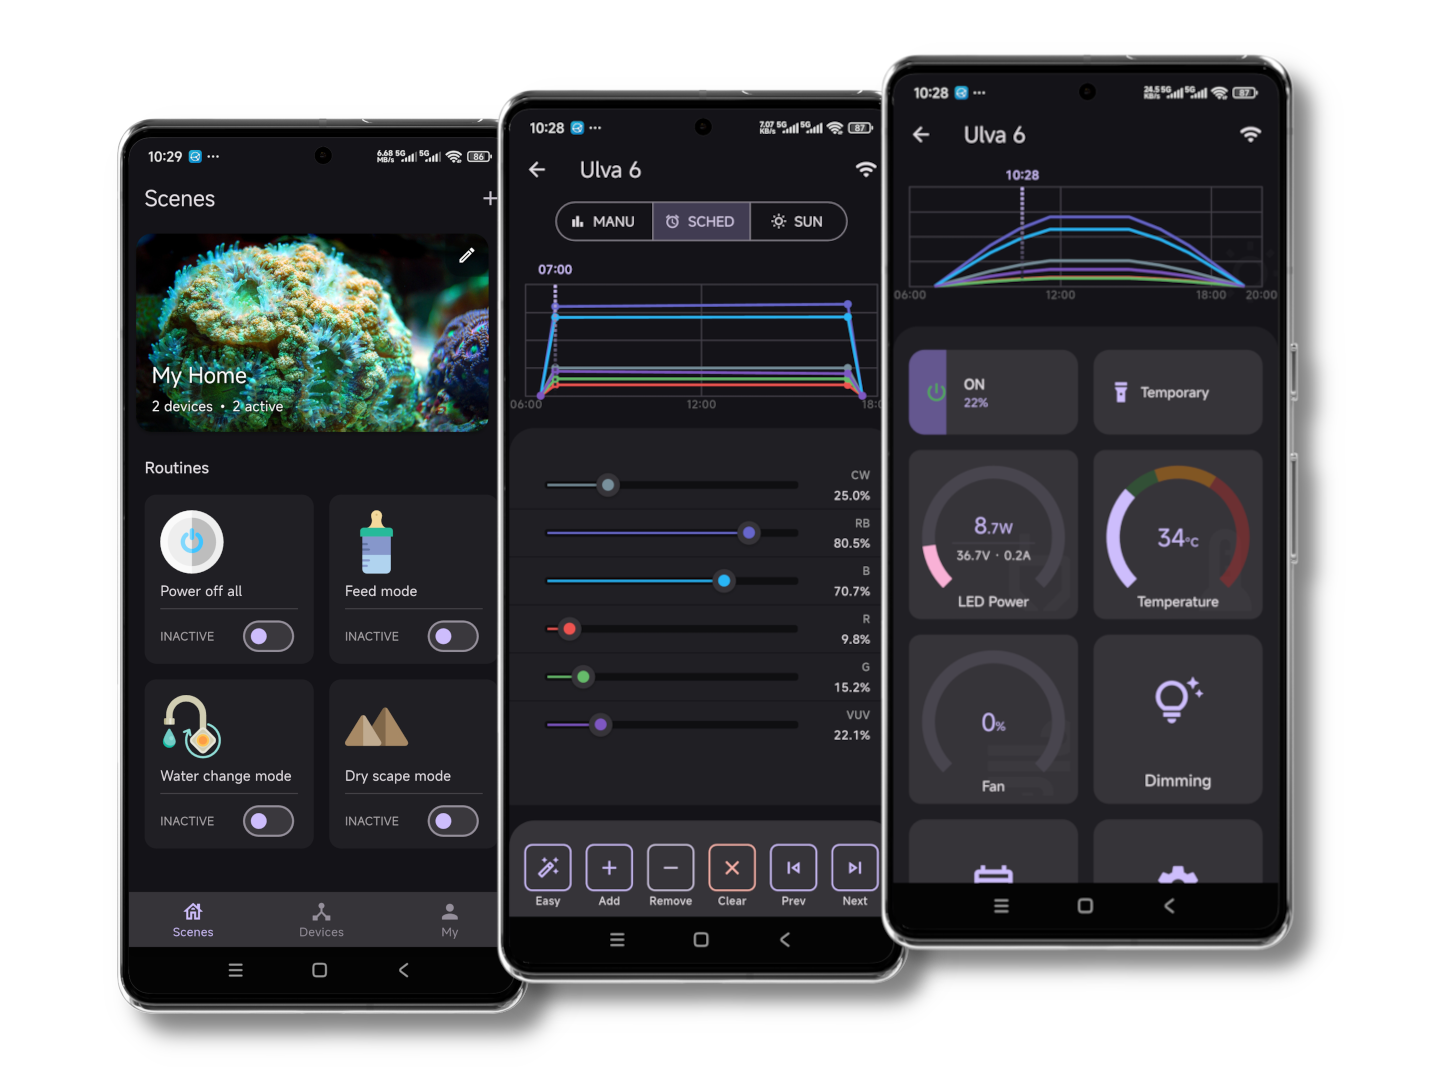
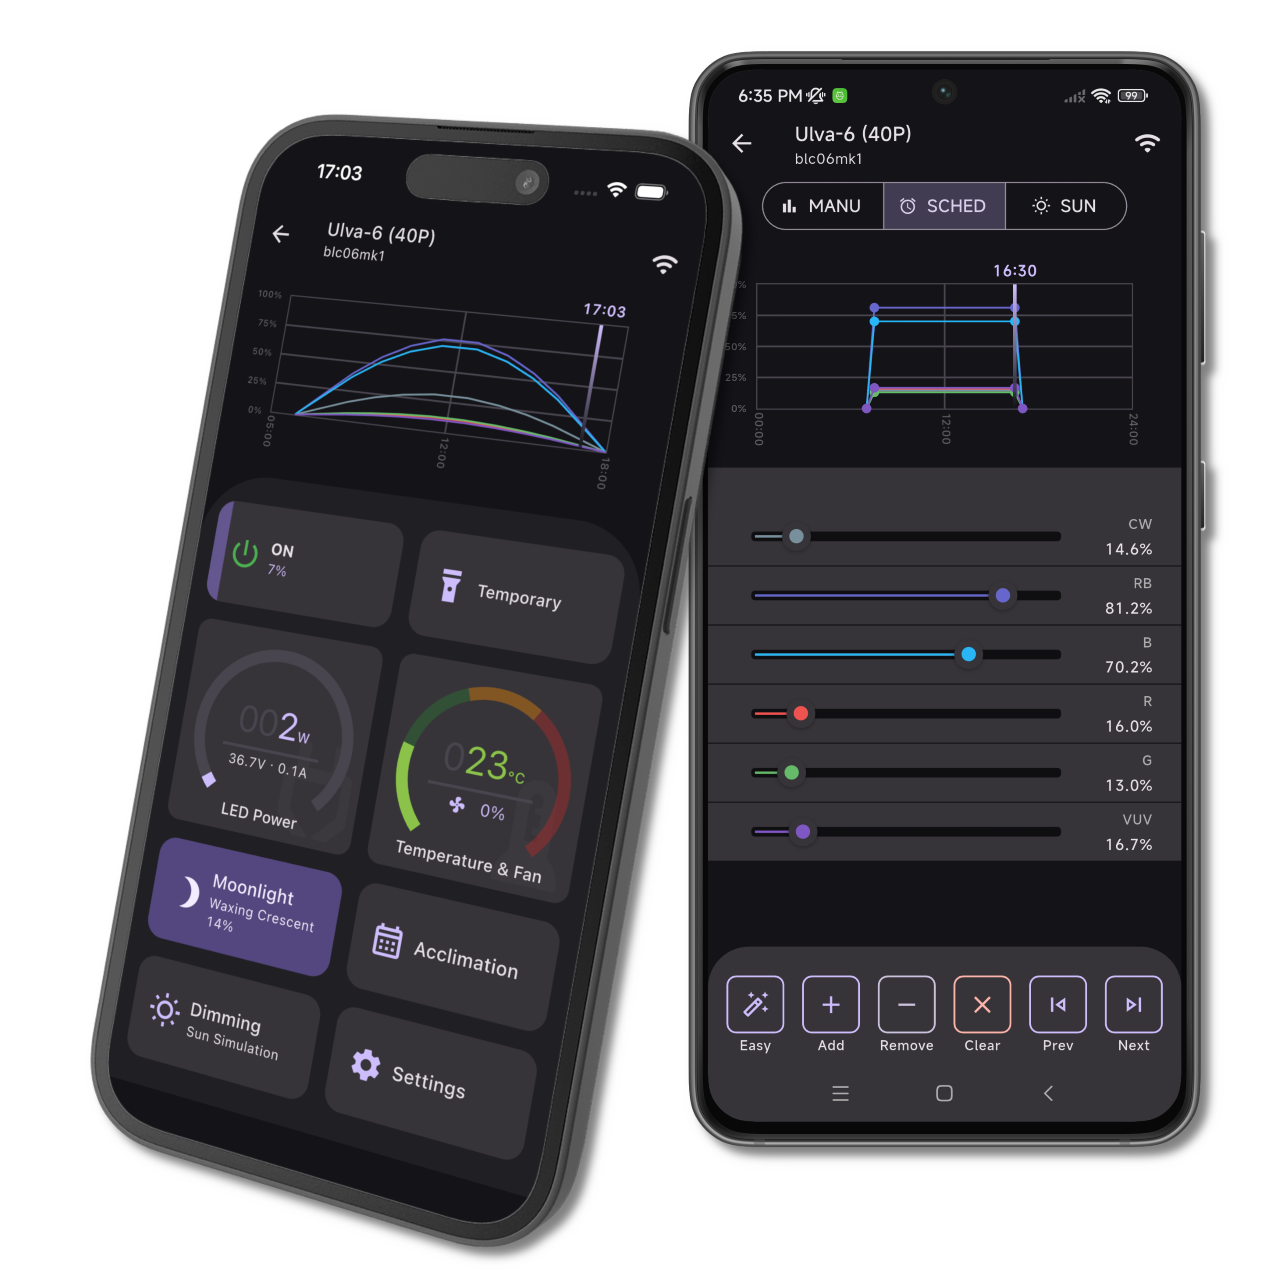
Add Borneo-IoT mobile app page and update links for consistency
- Created a new page for the Borneo-IoT Mobile App with features and technical information.
- Updated links in various files to point to the new app page.
- Enhanced content structure by adding new bricks for better presentation.
- Removed outdated gallery image and updated app image.

diff --git a/themes/hugobricks/layouts/partials/brick_intro3.html b/themes/hugobricks/layouts/partials/brick_intro3.html
@@ -1,0 +1,27 @@
+{{- $inner := . -}}
+{{- if or (eq $inner "") (eq $inner nil) -}}
+    {{- $inner = "Empty brick found. Consider creating a 'content/bricks/intro3.md' file." -}}
+    {{- with page.Site.GetPage "bricks/intro3.md" -}}
+        {{- $inner = .RawContent -}}
+    {{- end -}}
+{{- end -}}
+
+{{- $inner = markdownify $inner -}}
+{{- /* look for the first media element: image inside a paragraph, a video tag or an iframe */ -}}
+{{- $media := index (findRE `(?s)(<p>\s*(?:<img|<video|<iframe).*?</p>)|(<video.*?</video>)|(<iframe.*?</iframe>)` $inner 1) 0 -}}
+{{- if ne $media "" -}}
+    {{- $inner = replace $inner $media "" 1 -}}
+{{- end -}}
+
+<section class="intro image">
+    <div class="container twocols">
+        <div class="text">
+            {{ $inner | safeHTML }}
+        </div>
+        {{- if ne $media "" -}}
+        <div class="image">
+            {{- $media | safeHTML -}}
+        </div>
+        {{- end -}}
+    </div>
+</section>

diff --git a/themes/hugobricks/layouts/partials/brick_video2.html b/themes/hugobricks/layouts/partials/brick_video2.html
@@ -1,0 +1,24 @@
+
+{{- $inner := . -}}
+{{- if or (eq $inner "") (eq $inner nil) -}}
+    {{- $inner = "Empty brick found. Consider creating a 'content/bricks/video.md' file." -}}
+    {{- with page.Site.GetPage "bricks/image.md" -}}
+        {{- $inner = .RawContent -}}
+    {{- end -}}
+{{- end -}}
+
+{{ $inner = markdownify $inner }}
+{{ $image := index (findRE `(?s)<video.*\/video>` $inner 1) 0 }}
+{{ $inner = replace $inner $image "" 1 }}
+
+<section class="image alt hasbackgroundcolor">
+    <div class="container twocols">
+        <div class="image">
+            {{- $image | safeHTML -}}
+        </div>
+        <div class="text">
+            {{ $inner | safeHTML }}
+        </div>
+    </div>
+</section>
+

diff --git a/themes/hugobricks/layouts/shortcodes/brick_intro2.html b/themes/hugobricks/layouts/shortcodes/brick_intro2.html
@@ -1,0 +1,20 @@
+<!-- 
+{{/* 
+
+Usage:
+
+{{< brick_intro >}}
+
+# The Ultimate Theme You Need To Start Your Hugo Website
+
+Hugobricks is a free website theme built with Hugo and vanilla CSS, providing everything you need to jumpstart your Hugo website and save valuable time.
+
+{{< button "Get started for free" "/get-started/" >}}
+
+![](/uploads/brick_intro.png)
+
+{{< /brick_intro >}}
+    
+*/}}
+-->
+{{- partial "brick_intro2.html" .Inner -}}

diff --git a/themes/hugobricks/layouts/shortcodes/brick_intro3.html b/themes/hugobricks/layouts/shortcodes/brick_intro3.html
@@ -1,0 +1,19 @@
+<!-- 
+{{/* 
+
+Usage:
+
+{{< brick_intro3 >}}
+
+# A title on the left
+
+Some introductory text on the left side.  If you drop an image, video or iframe into the content,
+it will be pulled out and placed on the right column automatically.
+
+![](/uploads/sample.png)
+
+{{< /brick_intro3 >}}
+    
+*/}}
+-->
+{{- partial "brick_intro3.html" .Inner -}}

diff --git a/themes/hugobricks/layouts/shortcodes/brick_video2.html b/themes/hugobricks/layouts/shortcodes/brick_video2.html
@@ -1,0 +1,18 @@
+<!-- 
+{{/* 
+
+Usage:
+
+{{< brick_video >}}
+
+## Ready to build your next project with Next?
+
+Experience the future of web development with Nextplate and Next. Build lightning-fast static sites with ease and flexibility.
+
+![](/uploads/brick_video.mp4)
+
+{{< /brick_video >}}
+    
+*/}}
+-->
+{{- partial "brick_video2.html" .Inner -}}

diff --git a/content/en/_index.md b/content/en/_index.md
@@ -5,7 +5,7 @@ seo:
   description: "Borneo IoT provides modular, high-performance hardware solutions for smart aquarium lighting and automation. From the Ulva-6 smart reef LED to BLC06E OEM modules, we empower hobbyists and manufacturers."
 ---
 
-{{< brick_title >}}
+{{< brick_title2 >}}
 
 ![](/uploads/photos/home/hero.jpg)
 
@@ -17,39 +17,14 @@ seo:
 {{< button2 "GitHub" "https://github.com/borneo-iot/borneo/releases" >}}
 {{< button2 "Join Discord Community" "https://discord.gg/EFJTm7PpEs" >}}
 
-{{< /brick_title >}}
+{{< /brick_title2 >}}
 
-{{< brick_features >}}
-
----
-
-![](/img/icons/material-symbols/200/rounded/devices.svg)
-### Zero-Code, Instant Launch
-
-Launch smart, App-controlled products in 4-6 weeks with our pre-integrated kit, including firmware, dimmer, and brand-ready app. Skip software development and focus on hardware design.
-
----
-
-![](/img/icons/material-symbols/200/rounded/performance_max.svg)
-### Expert Aquatic Performance
-
-Gain premium aquatic functionality instantly. Our firmware includes 10+ channel dimming, sunrise/sunset simulation, and lunar cycling, meeting high-end reef and planted tank demands out of the box.
-
----
-
-![](/img/icons/material-symbols/200/rounded/design_services.svg)
-### Dedicated OEM Partner
-
-We're your outsourced R&D department for smart products. Enjoy low costs, minimal orders, and end-to-end support from integration to App store submission, ensuring smooth market entry.
-
-{{< /brick_features >}}
 
 
 {{< brick_video >}}
 
 ## Meet Ulva-6
 
-{{< video "/uploads/video/ulva6-720p.mp4" >}}
 
 **Ulva-6** is the world's first high-end, fully open-source WiFi smart LED DIY kit for nano reef aquariums.
 
@@ -61,6 +36,8 @@ We're your outsourced R&D department for smart products. Enjoy low costs, minima
   {{< button2 "More Info" "/products/ulva6" >}}
   {{< button_cs "Subscribe on Crowd Supply" "https://www.crowdsupply.com/borneo-iot/buce-aquarium-led-controller" >}}
 </div>
+
+{{< video "/uploads/video/ulva6-720p.mp4" >}}
 
 {{< /brick_video >}}
 
@@ -77,7 +54,7 @@ We're your outsourced R&D department for smart products. Enjoy low costs, minima
   * Manual control mode
 * Dark theme
 
-{{< button2 " More Info" "products/app" >}}
+{{< button2 " More Info" "/app" >}}
 
 {{< /brick_image2 >}}
 

diff --git a/content/en/about.md b/content/en/about.md
@@ -37,6 +37,7 @@ Enable small manufacturers and makers to bring high-performance, smart aquarium 
 - **Docs & reference designs:** schematics, PCB layouts, dev/eval boards
 - **OEM services:** branding, customization, and contract manufacturing
 
+
 ### Built For
 
 - **Brands & OEMs:** launch fast with zero-code integration and app branding
@@ -51,6 +52,34 @@ We invite partners and contributors to join us in making advanced smart aquarium
 {{< button "GitHub Repo" "https://github.com/borneo-iot/borneo" >}}
 
 {{< /brick_wide >}}
+
+
+---
+
+{{< brick_features >}}
+
+---
+
+![](/img/icons/material-symbols/200/rounded/devices.svg)
+### Zero-Code, Instant Launch
+
+Launch smart, App-controlled products in 4-6 weeks with our pre-integrated kit, including firmware, dimmer, and brand-ready app. Skip software development and focus on hardware design.
+
+---
+
+![](/img/icons/material-symbols/200/rounded/performance_max.svg)
+### Expert Aquatic Performance
+
+Gain premium aquatic functionality instantly. Our firmware includes 10+ channel dimming, sunrise/sunset simulation, and lunar cycling, meeting high-end reef and planted tank demands out of the box.
+
+---
+
+![](/img/icons/material-symbols/200/rounded/design_services.svg)
+### Dedicated OEM Partner
+
+We're your outsourced R&D department for smart products. Enjoy low costs, minimal orders, and end-to-end support from integration to App store submission, ensuring smooth market entry.
+
+{{< /brick_features >}}
 
 
 ---

diff --git a/content/en/products/blc06e.md b/content/en/products/blc06e.md
@@ -20,7 +20,7 @@ image: /uploads/products/blc10mk3/blc10mk3-white-2.jpg
 
 ## Introduction
 
-The BLC06E is an embedded smart 6-channel LED dimmer designed for professional freshwater and reef light manufacturers. It integrates all the complex and precise circuitry into a coin-sized package, is driven by our in-house firmware platform, and is controlled by the [Borneo-IoT App](/products/app).
+The BLC06E is an embedded smart 6-channel LED dimmer designed for professional freshwater and reef light manufacturers. It integrates all the complex and precise circuitry into a coin-sized package, is driven by our in-house firmware platform, and is controlled by the [Borneo-IoT App](/app).
 
 Based on the [Buce](/products/buce) dimmer, the BLC06E has been optimized for cost and manufacturability for mass production. It uses an SMT board-to-board connector and a surface-mount screw nut for secure attachment, making it easy to connect to LED baseboards. Using the BLC06E eliminates the time and cost of firmware and app development, significantly accelerating time-to-market.
 

diff --git a/content/en/products/buce.md b/content/en/products/buce.md
@@ -25,7 +25,7 @@ image: /uploads/products/blc06mk1/gallery/buce-bottom-white-1.jpg
 
 Buce (Model BLC06) is an open-source, 6‑channel WiFi LED PWM dimmer for makers and engineers.
 
-Buce can be controlled via the [BorneoIoT mobile app](/products/app) (iOS & Android) for real‑time channel control, presets & scenes, scheduling, OTA firmware updates, and Wi‑Fi setup/device discovery.
+Buce can be controlled via the [BorneoIoT mobile app](/app) (iOS & Android) for real‑time channel control, presets & scenes, scheduling, OTA firmware updates, and Wi‑Fi setup/device discovery.
 
 It is optimized for aquarium lighting but fits many LED projects. Connect a [constant-current LED driver](/products/bacopa) and high-power LEDs — Buce handles the control and scheduling.
 

diff --git a/content/en/app/_index.md b/content/en/app/_index.md
@@ -4,7 +4,7 @@ description: "The official open-source, cross-platform app for Borneo-IoT device
 image: /uploads/products/app/app.png
 ---
 
-{{< brick_intro >}}
+{{< brick_intro3 >}}
 
 # Your Aquarium, Controlled
 
@@ -15,7 +15,9 @@ Borneo-IoT Mobile App is a powerful, open-source companion for your smart aquari
 ![](/uploads/products/app/app.png)
 
 
-{{< /brick_intro >}}
+{{< /brick_intro3 >}}
+
+---
 
 {{< brick_features >}}
 
@@ -58,6 +60,8 @@ No internet? No problem. The app works entirely within your local network, ensur
 Featuring a native dark theme and multi-language support, the clean interface stays out of your way while giving you deep control.
 
 {{< /brick_features >}}
+
+---
 
 {{< brick_wide >}}
 

diff --git a/content/en/bricks/features.md b/content/en/bricks/features.md
@@ -14,7 +14,7 @@ Hugobricks covers all components you would like to have at hand. It is a power e
 We aim to provide the following bricks: intro, title, image, cta, contact, team, testimonials, about, pricing, products, product, usps, stats, gallery, quote, faqs, brands, video, blogs, post, related.
 
 
-{{< button "Learn more" "/products/app" >}}
+{{< button "Learn more" "/app" >}}
 
 ---
 
